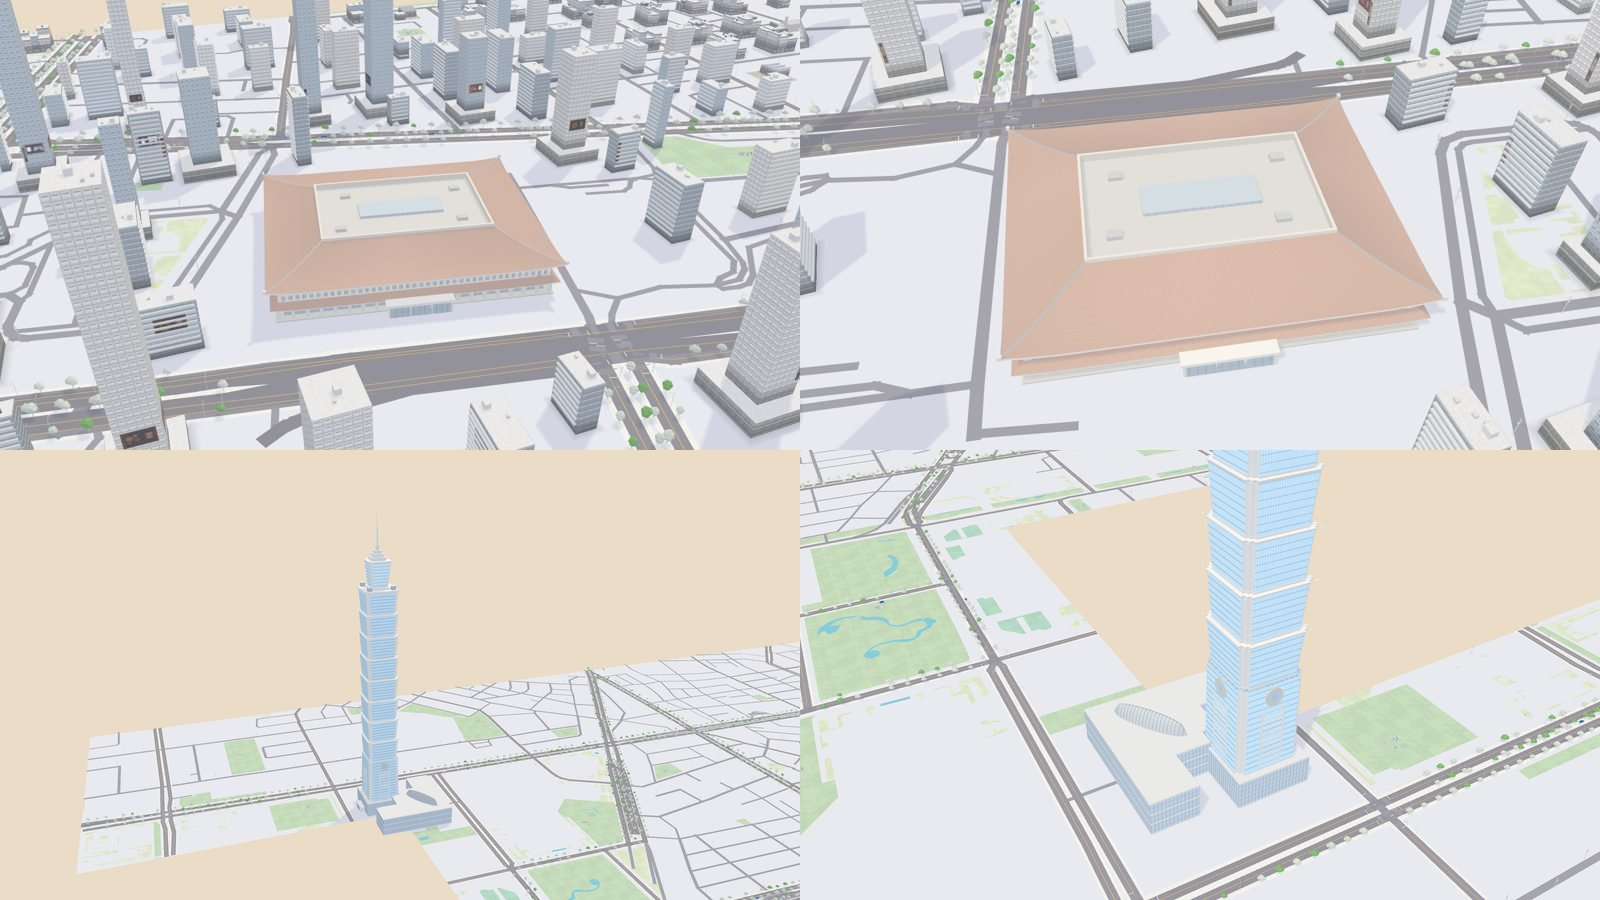
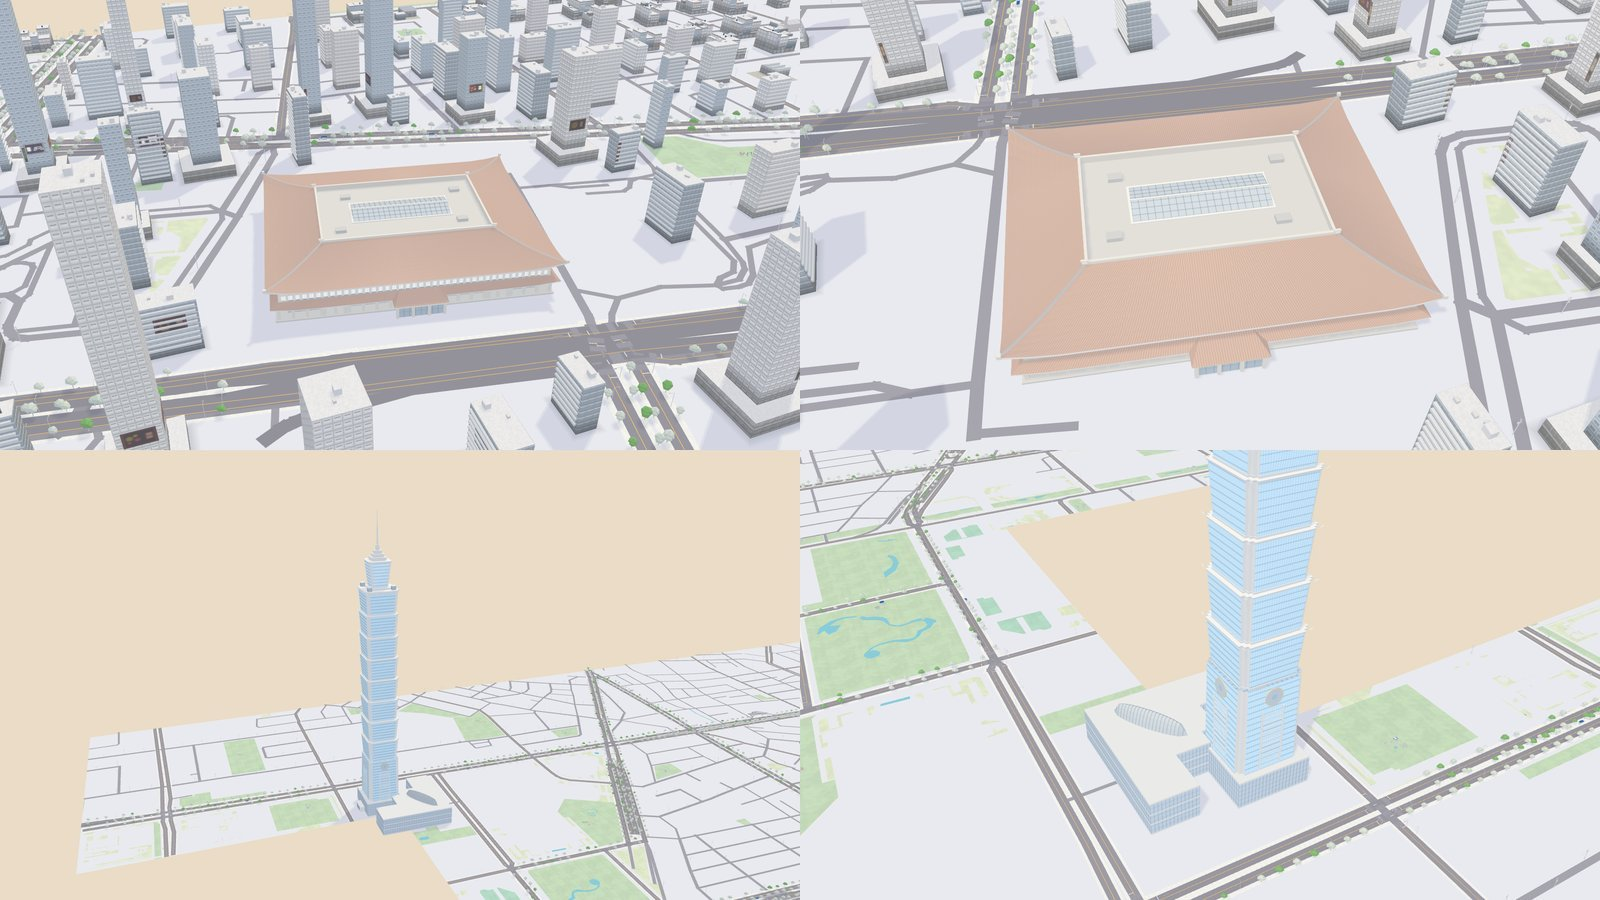
3D map: Taipei Main Station's arcade, gates, window band and roof details
Claude-Session: https://claude.ai/code/session_01BnZ6aE54dfdknXcyjYqUvQ

diff --git a/Sources/GamePresentation/Map3DTaipeiLandmarks.swift b/Sources/GamePresentation/Map3DTaipeiLandmarks.swift
@@ -414,39 +414,74 @@ struct LandmarkMesh {
 
     mutating func station() {
         let hx: Float = 72.8, hy: Float = 57.8
-        // A grey plinth, the ground storey's glass behind square columns.
+        // A grey plinth; an arcade round all four sides, square stone
+        // columns on the outer line and the ground storey's glass 4.5 m
+        // behind them.
         box(-hx - 2, -hy - 2, 0, hx + 2, hy + 2, 0.8, colour("plinth"), Self.plain, top: colour("plinth"))
-        let gx = hx - 2.5, gy = hy - 2.5
+        let gx = hx - 4.5, gy = hy - 4.5
         let ground: [P2] = [(-gx, -gy), (gx, -gy), (gx, gy), (-gx, gy)]
         wallBand(ground, 0.8, ground, 9, colour("groundGlass"), Self.curtain)
+        let outer: [P2] = [(-hx, -hy), (hx, -hy), (hx, hy), (-hx, hy)]
+        band(ground, [Float](repeating: 8.1, count: 4), outer, [Float](repeating: 8.1, count: 4), colour("soffit"), Self.plain)
         if full {
             let sides: [(P2, P2)] = [((-hx, -hy), (hx, -hy)), ((hx, -hy), (hx, hy)), ((hx, hy), (-hx, hy)), ((-hx, hy), (-hx, -hy))]
             for (a, b) in sides {
                 let n = Int((Self.distance(a, b) / 7.2).rounded())
                 for s in 0...n {
                     let x = a.x + (b.x - a.x) * Float(s) / Float(n), y = a.y + (b.y - a.y) * Float(s) / Float(n)
-                    box(x - 0.9, y - 0.9, 0.8, x + 0.9, y + 0.9, 9, colour("wall"), Self.plain)
+                    box(x - 0.8, y - 0.8, 0.8, x + 0.8, y + 0.8, 8.1, colour("wall"), Self.plain)
                 }
             }
         }
-        // The entrance porches at the middle of the long faces.
-        for sign in [Float(-1), 1] {
-            let y0 = sign * hy, y1 = sign * (hy + 9)
-            box(-16, min(y0, y1), 0.8, 16, max(y0, y1), 7.5, colour("groundGlass"), Self.curtain, top: colour("wall"))
-            box(-18, min(y0, y1) - (sign < 0 ? 0.6 : 0), 7.5, 18, max(y0, y1) + (sign > 0 ? 0.6 : 0), 9, colour("trim"), Self.plain,
-                top: colour("trim"))
+        // The gates where OSM's entrance nodes are (x is west, y south):
+        // 北1／北3 and 南1／南3 at x ±44, 東1／東3 and 西1／西3 at y ±28.6,
+        // 東2 and 西2 in the middle of the short faces; each a white
+        // canopy over the arcade between two wider piers.
+        var gates: [(at: P2, along: P2, out: P2)] = []
+        for x in [Float(-44), 44] { gates += [((x, -hy), (1, 0), (0, -1)), ((x, hy), (1, 0), (0, 1))] }
+        for y in [Float(-28.6), 0, 28.6] { gates += [((-hx, y), (0, 1), (-1, 0)), ((hx, y), (0, 1), (1, 0))] }
+        for g in gates {
+            func at(_ a: Float, _ o: Float) -> P2 { (g.at.x + g.along.x * a + g.out.x * o, g.at.y + g.along.y * a + g.out.y * o) }
+            let c0 = at(-6.5, -0.4), c1 = at(6.5, 2.6)
+            box(min(c0.x, c1.x), min(c0.y, c1.y), 6.4, max(c0.x, c1.x), max(c0.y, c1.y), 7.3, colour("trim"), Self.plain, top: colour("trim"))
             if full {
-                for x in [Float(-16.5), -5.5, 5.5, 16.5] {
-                    let yy = sign * (hy + 8.4)
-                    box(x - 0.6, yy - 0.6, 0.8, x + 0.6, yy + 0.6, 7.5, colour("wall"), Self.plain)
+                for a in [Float(-5.6), 5.6] {
+                    let p = at(a, 0.2)
+                    box(p.x - 1.1, p.y - 1.1, 0.8, p.x + 1.1, p.y + 1.1, 8.1, colour("wall"), Self.plain)
+                }
+            }
+        }
+        // The main entrances, 北2 and 南2, stand out from the middle of the
+        // long faces: glass behind columns under a tiled hip roof that
+        // meets the lower eave.
+        for sign in [Float(-1), 1] {
+            let y0 = sign * hy, y1 = sign * (hy + 9), yf = sign * (hy + 10.2)
+            box(-12, min(y0, y1), 0.8, 12, max(y0, y1), 7.4, colour("groundGlass"), Self.curtain, top: colour("wall"))
+            box(-13.6, min(y0, yf), 7.4, 13.6, max(y0, yf), 9.0, colour("trim"), Self.plain, top: colour("trim"))
+            let front0: P3 = (-14.4, sign * (hy + 11.0), 8.8), front1: P3 = (14.4, sign * (hy + 11.0), 8.8)
+            let back0: P3 = (-10.0, y0, 11.6), back1: P3 = (10.0, y0, 11.6)
+            let foot0: P3 = (-14.4, y0, 8.8), foot1: P3 = (14.4, y0, 8.8)
+            if sign < 0 {
+                quad(front0, front1, back1, back0, colour("roof"), Self.tiles, [(0, 0), (28.8, 0), (24.4, 11.4), (4.4, 11.4)])
+                tri(foot0, front0, back0, colour("roof"), Self.tiles)
+                tri(front1, foot1, back1, colour("roof"), Self.tiles)
+            } else {
+                quad(front1, front0, back0, back1, colour("roof"), Self.tiles, [(0, 0), (28.8, 0), (24.4, 11.4), (4.4, 11.4)])
+                tri(front0, foot0, back0, colour("roof"), Self.tiles)
+                tri(foot1, front1, back1, colour("roof"), Self.tiles)
+            }
+            if full {
+                for x in [Float(-12.5), -4.2, 4.2, 12.5] {
+                    let yy = sign * (hy + 9.4)
+                    box(x - 0.7, yy - 0.7, 0.8, x + 0.7, yy + 0.7, 7.4, colour("wall"), Self.plain)
                 }
             }
         }
         // The lower eave: a tiled skirt round the building over the
-        // colonnade, its corners turned up a little.
+        // arcade, its corners turned up.
         let (ringIn, nearIn) = Self.rectRing(hx, hy)
         let ringOut = ringIn.map { (x: $0.x * (hx + 4.2) / hx, y: $0.y * (hy + 4.2) / hy) }
-        let up = nearIn.map { n -> Float in let t = 1 - min(n, 0.25) / 0.25; return 0.9 * t * t }
+        let up = nearIn.map { n -> Float in let t = 1 - min(n, 0.25) / 0.25; return 1.4 * t * t }
         band(ringOut, up.map { 8.6 + $0 }, ringIn, up.map { _ in 11.4 }, colour("roof"), Self.tiles)
         band(ringOut, up.map { 8.1 + $0 }, ringOut, up.map { 8.6 + $0 }, colour("trim"), Self.plain)
         band(ringIn, up.map { _ in 8.1 }, ringOut, up.map { 8.1 + $0 }, colour("soffit"), Self.plain)
@@ -455,7 +490,11 @@ struct LandmarkMesh {
         // 23641610: 30 m, its roof from the lower eave 18 m high).
         let ux = hx - 1.2, uy = hy - 1.2
         cap([(-ux, -uy), (ux, -uy), (ux, uy), (-ux, uy)], 11.4, colour("wall"), Self.plain)
-        pilasters(ux, uy, 11.4, 18.0, step: 3.6, depth: 0.7, width: 1.3, colour("wall"), panel: colour("stripGlass"), panelLayer: Self.curtain)
+        // Plaster between the pilasters, and above the belt a band of
+        // square windows all the way round, which the pilasters divide.
+        pilasters(ux, uy, 11.4, 18.0, step: 3.6, depth: 0.7, width: 1.3, colour("wall"), panel: colour("wall"), panelLayer: Self.floors)
+        let windows: [P2] = [(-ux - 0.08, -uy - 0.08), (ux + 0.08, -uy - 0.08), (ux + 0.08, uy + 0.08), (-ux - 0.08, uy + 0.08)]
+        wallBand(windows, 15.4, windows, 17.5, colour("stripGlass"), Self.curtain)
         let belt: [P2] = [(-ux - 0.3, -uy - 0.3), (ux + 0.3, -uy - 0.3), (ux + 0.3, uy + 0.3), (-ux - 0.3, uy + 0.3)]
         wallBand(belt, 14.4, belt, 15.0, colour("wall"), Self.plain)
         // The cornice: a white band and a bracket course.
@@ -470,10 +509,10 @@ struct LandmarkMesh {
         for s in 0...steps {
             let t = Float(s) / Float(steps)
             let sx = ex - (ex - rx) * t, sy = ey - (ey - ry) * t
-            let sweep = 1.8 * (1 - t) * (1 - t) * (1 - t)
+            let sweep = 2.6 * (1 - t) * (1 - t) * (1 - t)
             let heights = near.map { n -> Float in
                 let corner = 1 - min(n, 0.3) / 0.3
-                return 20.2 + 8.4 * powf(t, 1.7) + sweep * corner * corner
+                return 20.2 + 7.6 * powf(t, 1.7) + sweep * corner * corner
             }
             rings.append((unit.map { (x: $0.x * sx, y: $0.y * sy) }, heights))
         }
@@ -501,15 +540,29 @@ struct LandmarkMesh {
         }
         let top = rings[steps].points, ztop = rings[steps].heights[0]
         let ridge = top.map { (x: $0.x * (rx + 1.2) / rx, y: $0.y * (ry + 1.2) / ry) }
-        band(ridge, top.map { _ in ztop - 0.3 }, ridge, top.map { _ in ztop + 1.4 }, colour("ridge"), Self.plain)
-        band(ridge, top.map { _ in ztop + 1.4 }, top, top.map { _ in ztop + 1.4 }, colour("ridge"), Self.plain)
+        band(ridge, top.map { _ in ztop - 0.3 }, ridge, top.map { _ in ztop + 1.0 }, colour("ridge"), Self.plain)
+        band(ridge, top.map { _ in ztop + 1.0 }, top, top.map { _ in ztop + 1.0 }, colour("ridge"), Self.plain)
         // The flat middle a little below the ridge, with a skylight and
         // plant.
         let well = Array(top.reversed())
-        band(well, well.map { _ in ztop - 2.2 }, well, well.map { _ in ztop + 1.4 }, colour("wellWall"), Self.plain)
+        band(well, well.map { _ in ztop - 2.2 }, well, well.map { _ in ztop + 1.0 }, colour("wellWall"), Self.plain)
         cap([(-rx, -ry), (rx, -ry), (rx, ry), (-rx, ry)], ztop - 2.2, colour("flatRoof"), Self.plain)
-        box(-24, -8, ztop - 2.2, 24, 8, ztop - 0.6, colour("skylight"), Self.curtain, top: colour("skylight"))
+        // The hall's skylight: a long glass gable over the middle.
+        let sz = ztop - 2.2, sh: Float = 2.4
+        box(-29, -11, sz, 29, 11, sz + 0.6, colour("trim"), Self.plain, top: colour("trim"))
+        quad((-28, -10, sz + 0.6), (28, -10, sz + 0.6), (28, 0, sz + 0.6 + sh), (-28, 0, sz + 0.6 + sh), colour("skylight"), Self.curtain,
+             [(0, 0), (56, 0), (56, 10.3), (0, 10.3)])
+        quad((28, 10, sz + 0.6), (-28, 10, sz + 0.6), (-28, 0, sz + 0.6 + sh), (28, 0, sz + 0.6 + sh), colour("skylight"), Self.curtain,
+             [(0, 0), (56, 0), (56, 10.3), (0, 10.3)])
+        tri((-28, 10, sz + 0.6), (-28, -10, sz + 0.6), (-28, 0, sz + 0.6 + sh), colour("skylight"), Self.curtain)
+        tri((28, -10, sz + 0.6), (28, 10, sz + 0.6), (28, 0, sz + 0.6 + sh), colour("skylight"), Self.curtain)
+        // Ornaments where the ridge turns, their tops the roof's 30 m.
+        for (x, y) in [(-rx - 1.2, -ry - 1.2), (rx + 1.2, -ry - 1.2), (rx + 1.2, ry + 1.2), (-rx - 1.2, ry + 1.2)] {
+            box(x - 1.0, y - 1.0, ztop + 1.0, x + 1.0, y + 1.0, ztop + 1.6, colour("ridge"), Self.plain)
+            box(x - 1.4, y - 0.5, ztop + 1.6, x + 1.4, y + 0.5, ztop + 2.2, colour("ridge"), Self.plain)
+        }
         if full {
+            box(-28.4, -0.35, sz + 0.6 + sh - 0.2, 28.4, 0.35, sz + 0.6 + sh + 0.3, colour("trim"), Self.plain)
             for (x, y) in [(Float(-36), Float(-18)), (-30, 18), (33, -17), (36, 17)] {
                 box(x - 3, y - 2, ztop - 2.2, x + 3, y + 2, ztop - 0.4, colour("plant"), Self.plain)
             }

diff --git a/docs/decisions/370.md b/docs/decisions/370.md
@@ -148,7 +148,7 @@
   | 尖塔 way 615183623 | 448–508 m | 細尖塔與三圈環 |
 
   塔不在裙樓中間：塔心在範圍中心西南約 40 m（模型座標 −30.4, −26.2），購物中心從兩邊包住它。舊模型把塔放在中間，是最大的錯。
-- 台北車站（OSM way 23641610）：足跡 158 × 128 m（轉 169.5° 後；舊模型的簷口正好 156.8 × 126.8，不用改），`height=30`、`roof:shape=pyramidal`、`roof:height=18`。舊模型屋脊 43.4 m 太高，改成頂 30 m：上層牆 11.4–18 m，簷口到 20.2 m，四坡從 20.2 m 升到 28.6 m，屋脊頂 30 m。
+- 台北車站（OSM way 23641610）：足跡 158 × 128 m（轉 169.5° 後；舊模型的簷口正好 156.8 × 126.8，不用改），`height=30`、`roof:shape=pyramidal`、`roof:height=18`。舊模型屋脊 43.4 m 太高，改成頂 30 m：上層牆 11.4–18 m，簷口到 20.2 m，四坡從 20.2 m 升到 27.8 m，屋脊到 28.8 m，屋脊轉角的脊飾頂 30 m。`building:levels=7`、`building:levels:underground=4`、`building:material=plaster`；這棟沒有 building:part。
 - 地圖沒有的細節（八節外張、圓環、如意、車站的簷與壁柱）、顏色與線條，照下面 `landmarks.py` 的做法。八節的高度由地圖的 89 層屋頂 386 m 往下排：塔基 25–98 m，八節每節 36 m。
 
 **形狀**（新檔 `Map3DTaipeiLandmarks.swift`）：照上面的規格，零件做法照參考庫 `landmarks.py`，不是原網格。
@@ -159,20 +159,15 @@
   - 塔基 25–98 m 的四角退階斷面，略收，加白框橫條，四面各一枚圓環（中心 88 m）；
   - 八節外張的塔身 98–386 m，每節腳下一圈白腰帶、頂上一圈白簷，寬度照 OSM 的足跡，四角上翹如意，四角內凹處各兩條白色直條；
   - 頂部（386–508 m）照下面「101 的頂部」。
-- 台北車站：
-  - 灰色基座、一樓玻璃與柱、兩長邊入口門廊；
-  - 白牆加壁柱到 18 m；
-  - 一圈下層瓦簷、白色簷口；
-  - 十二段內凹的四坡瓦頂，屋脊頂 30 m；
-  - 中間低 2.2 m 的平屋頂、天窗與四個設備箱。
+- 台北車站：照下面「台北車站的細節」。
 - 近看是整個模型（`.near`），遠看是少了小零件的模型（`.far`）。遠看的模型：
   - 101 沒有圓環、白框橫條、如意的尖、四角的白直條、平台的齒簷與四個玻璃小箱、尖塔的環，拱頂從 12 × 8 格改成 6 × 4；
-  - 車站沒有柱、門廊柱、壁柱（壁板留）、垂脊、設備箱，四坡從 12 段改成 6 段。
+  - 車站沒有騎樓柱、門柱、門廊柱、壁柱（壁板與窗帶留）、垂脊、天窗的脊條、設備箱，四坡從 12 段改成 6 段。
 
 | | 近看 | 遠看 |
 | --- | --- | --- |
 | 101 三角形 | 4,716 | 2,308 |
-| 台北車站三角形 | 4,960 | 1,824 |
+| 台北車站三角形 | 5,458 | 2,070 |
 
 每個三角形三個頂點（平面著色，和預覽一樣）。
 
@@ -189,6 +184,42 @@
 - 頂部的玻璃是 −5（`curtainGlass`）。
 - 夜裡的窗照第 1 步的做法：只有 −5 與 −9 的直立面點窗，用整數格算出來的格子（101 3 × 4.2 m，車站 3.2 × 5 m）約三分之一亮，亮度 0.55–1.1 倍、暖白。白邊、平台、尖塔不點。`Map3DShaders.metal` 與 `index.html` 同一段算式。
 - 預覽 `docs/art/map3d-mapbox-look-2026-10-23/taipei101-crown.jpg`：左 14:00 近看上半（260 m）、中 14:00 全塔（1,150 m）、右 21:00 近看上半。
+
+**台北車站的細節**（作者 2026-10-23 轉來：台北車站也要更細；「以後都用 website 的那種模型做法來調整地標」）：
+
+照三步做：
+
+1. 起點：參考庫 `landmarks.py` 的 `station`（基座、一樓、下層瓦簷、壁柱、四坡、平頂）。
+2. 規格：OSM way 23641610（Overture 的同一棟從 OSM 來，一樣）。
+   - 高 30 m、`roof:height=18`、7 層，沒有 building:part。
+   - 這次加讀它四周的 entrance 節點（模型座標，x 向西、y 向南）：
+     - 北面（y −60.7）：北1門 x −49 至 −40、北2門 −4 至 3、北3門 39 至 48；
+     - 南面（y 58）：南1門 −48 至 −39、南2門 −4 至 6、另一個 40 至 48（OSM 也標南1門）；
+     - 東面（x −74）：東1門 y −33 至 −24、東2門 0、東3門 24 至 33；
+     - 西面（x 74）：西1門 −33 至 −25、西2門 0（服務門）、西3門 24 至 32。
+   - 足跡東西 158 m、南北 128 m，所以東西向較長。
+3. 細節：照真實照片的外觀（只看，不放進 repository、不上傳）：
+   - 重簷：下層瓦簷之上、上層大屋頂之下有一圈連續的方窗帶。15.4–17.5 m 的淡玻璃窗帶被 3.6 m 一根的壁柱分成方窗，下半是米白的灰泥牆；
+   - 四面騎樓：一樓玻璃退到柱列後 4.5 m，外面一排米白方柱，騎樓有天花；
+   - 出入口：每個 OSM 門的位置一個白色雨庇與兩根較寬的門柱；
+   - 南北兩面的中門（北2、南2）向外突出 9 m：玻璃門廳、四根柱、自己的小廡殿瓦頂接到下層瓦簷；
+   - 屋角起翹加大（下層簷 0.9 → 1.4 m，大屋頂 1.8 → 2.6 m）；
+   - 屋脊四個轉角各一個脊飾；
+   - 中間的天窗改成 56 × 20 m 的雙坡玻璃頂。
+
+- 遠看保留：窗帶、雨庇、門廳與小瓦頂、天窗、脊飾。
+- 夜裡：窗帶、門廳與一樓玻璃是 −5，照第 1 步的方式點窗；灰泥牆是 −9（樓層線），也會點窗。
+- 預覽 `docs/art/map3d-mapbox-look-2026-10-23/station-detail.jpg`：
+  - 左上：14:00 近看屋頂（230 m）；
+  - 右上：14:00 斜看門廳與窗帶（200 m）；
+  - 左下：14:00 遠看（700 m）；
+  - 右下：21:00 南面（170 m）。
+
+**101 也照三步對過**：
+
+1. 起點：`landmarks.py` 的 `taipei101`。
+2. 規格：OSM relation 11551064 的 part（上表）。
+3. 細節：照片與 Mapbox 的外觀，只看：頂部、腰帶、白直條。
 
 **顏色**：照 `compose_palettes.py` 的 `PALETTES[1.0]`（README 的表）。
 
@@ -226,6 +257,7 @@
 - 記憶體：`Map3DSceneMemoryTests.testThe3DMapRoundBanqiaoFitsAPhone` 綠（Linux）。
   - 板橋的場景含台北車站（5.5 km，遠看的模型）。
   - 網格由 765,691,840 位元組變成 765,928,416（+236,576，+0.03%），三角形 +1,768。照地圖改過之後量一次，還是 765,928,416（車站遠看的三角形數沒變，101 不在板橋的場景）。
+  - 車站加細節之後是 765,960,888（比上一次 +32,472，車站遠看 1,824 → 2,070 個三角形；比 main +269,048，+0.035%）。
   - 加的是車站遠看的模型，減掉它範圍內的真實建物與城市。
   - 沒有做到「不增加」：地標本身就是新的網格。
 - 預覽（`docs/art/map3d-mapbox-look-2026-10-23/game-landmarks.jpg`，預覽頁；Linux 的 `Map3DPreviewDump`）：
@@ -233,12 +265,12 @@
   - 右上：台北車站 300 m；
   - 左下：101 1,150 m；
   - 右下：101 520 m（塔在購物中心的角上，中庭的拱頂）；
-  - 101 兩張是改過頂部之後重拍的。
+  - 101 兩張是改過頂部之後重拍的，台北車站兩張是加細節之後重拍的。
 
 **五方**：
 
-- 玩家：台北車站與 101 一眼認得出，知道自己在哪；玩家的軌道在地面穿過時地標讓路，列車不會穿牆。
-- 鐵道迷：位置、方向、大小、高度照 OSM（台北車站頂 30 m、101 各段的高度）；地下的軌道不擋站房，和真的台鐵、高鐵一樣在地下；套件的台北站房讓給更像真的那棟。
+- 玩家：台北車站與 101 一眼認得出，知道自己在哪；台北車站的門在真的位置，南北中門一眼看得到；玩家的軌道在地面穿過時地標讓路，列車不會穿牆。
+- 鐵道迷：位置、方向、大小、高度照 OSM（台北車站頂 30 m、101 各段的高度），台北車站十二個門照 OSM 的 entrance 節點；地下的軌道不擋站房，和真的台鐵、高鐵一樣在地下；套件的台北站房讓給更像真的那棟。
 - 開發：只動 GamePresentation 與 shader，三個 layer 分支；板橋 +0.03%；兩個模型在建場景時算一次。
 - 美術：大小、高度、塔的位置照地圖（作者嫌參考庫的形狀醜，要照網頁版高雄車站的方法先抓規格）；細節與 (e) 的淡色照參考庫，101 天藍玻璃、車站淡紅瓦，和全城同一套。101 的頂部加了平台、玻璃小箱、倒梯形頂層、三階退台與細尖塔，每節有白腰帶與四角白直條，遠看只留大形。
 - 音樂：無。

diff --git a/docs/HANDOFF.md b/docs/HANDOFF.md
@@ -893,7 +893,7 @@
 
 **第 1 步做了**（session_01BnZ6aE54dfdknXcyjYqUvQ，`docs/decisions/370.md`）：全城換成 (e) 的顏色（`Map3DPalette`、新檔 `Map3DLook.swift`）、柔光、路面 layer −11 與路燈光（天空亮度 0.70 起開，0.50 全亮，比 (d) 早）。夜晚路面對地面 ΔL* 14.1；黃昏列車、白牆、公車對路面最小 7.8。板橋記憶體測試綠，頂點數不變。對照圖 `docs/art/map3d-mapbox-look-2026-10-23/game-e.jpg`。還沒做的：
 
-1. ~~第 2 步~~ 已做（同一 session，決策 370「第 2 步」）：101 與台北車站做進遊戲（`Map3DTaipeiLandmarks.swift`，線條 layer −5、−8、−9）。作者要照網頁版高雄車站的方法先抓規格，所以大小、高度、101 的塔位（在購物中心的角上，不在中間）照 OSM 的 building part，台北車站頂 30 m；細節照 `landmarks.py`。玩家地面上的軌道穿過時地標讓路，台北車站畫出來時套件的台北站房不畫。板橋記憶體測試綠，網格 +0.03%（車站遠看的模型）。對照圖 `game-landmarks.jpg`。之後作者要 101 上半部更好看：加了白色平台與四個玻璃小箱、倒梯形頂層、三階退台、細尖塔（508 m），每節白腰帶與四角白直條，夜裡帷幕玻璃點窗（`taipei101-crown.jpg`）；等作者看預覽，PR #1107 維持草稿。
+1. ~~第 2 步~~ 已做（同一 session，決策 370「第 2 步」）：101 與台北車站做進遊戲（`Map3DTaipeiLandmarks.swift`，線條 layer −5、−8、−9）。作者要照網頁版高雄車站的方法先抓規格，所以大小、高度、101 的塔位（在購物中心的角上，不在中間）照 OSM 的 building part，台北車站頂 30 m；細節照 `landmarks.py`。玩家地面上的軌道穿過時地標讓路，台北車站畫出來時套件的台北站房不畫。板橋記憶體測試綠，網格 +0.03%（車站遠看的模型）。對照圖 `game-landmarks.jpg`。之後作者要 101 上半部更好看：加了白色平台與四個玻璃小箱、倒梯形頂層、三階退台、細尖塔（508 m），每節白腰帶與四角白直條，夜裡帷幕玻璃點窗（`taipei101-crown.jpg`）。台北車站照三步（參考庫起點、OSM 規格與 entrance 節點、照片只看）加了四面騎樓、十二個門、南北中門的門廳與小瓦頂、方窗帶、屋角起翹、脊飾、雙坡天窗（`station-detail.jpg`）。等作者看預覽，PR #1107 維持草稿。
 2. 實機（TestFlight）看黃昏與夜晚的路、白天白牆對路面（只差 ΔL* 3–9.5，靠路緣與陰影分）。
 3. 天空與霧沒有改；要不要照預覽調淡，看實機再決定。
 

diff --git a/docs/art/map3d-mapbox-look-2026-10-23/README.md b/docs/art/map3d-mapbox-look-2026-10-23/README.md
@@ -286,6 +286,8 @@
 
 `taipei101-crown.jpg`：101 的頂部改過之後（作者：「101 上半部分可以再好看一點嗎」），左 14:00 近看上半（260 m）、中 14:00 全塔（1,150 m）、右 21:00 近看上半（夜裡的窗）。`game-landmarks.jpg` 下排的 101 也是改過之後重拍的。做法在決策 370「101 的頂部」。
 
+`station-detail.jpg`：台北車站加細節之後，左上 14:00 近看屋頂（230 m）、右上斜看門廳與窗帶、左下遠看（700 m）、右下 21:00 南面。`game-landmarks.jpg` 上排也重拍了。做法在決策 370「台北車站的細節」。
+
 ## 怎麼做的
 
 - 場景：`tools/map3d-preview/` 的同一套（Swift 輸出場景，WebGL 照 `Map3DShaders.metal` 的算式畫）。台北的實景新局（`MAP3D_WORLD=taipei`，台灣底圖與高度檔），信義區用以 101 為中心建的場景。預覽頁沒有決策 347／349 的天空與色調映射，顏色和 App 不完全一樣；實機還沒看。
